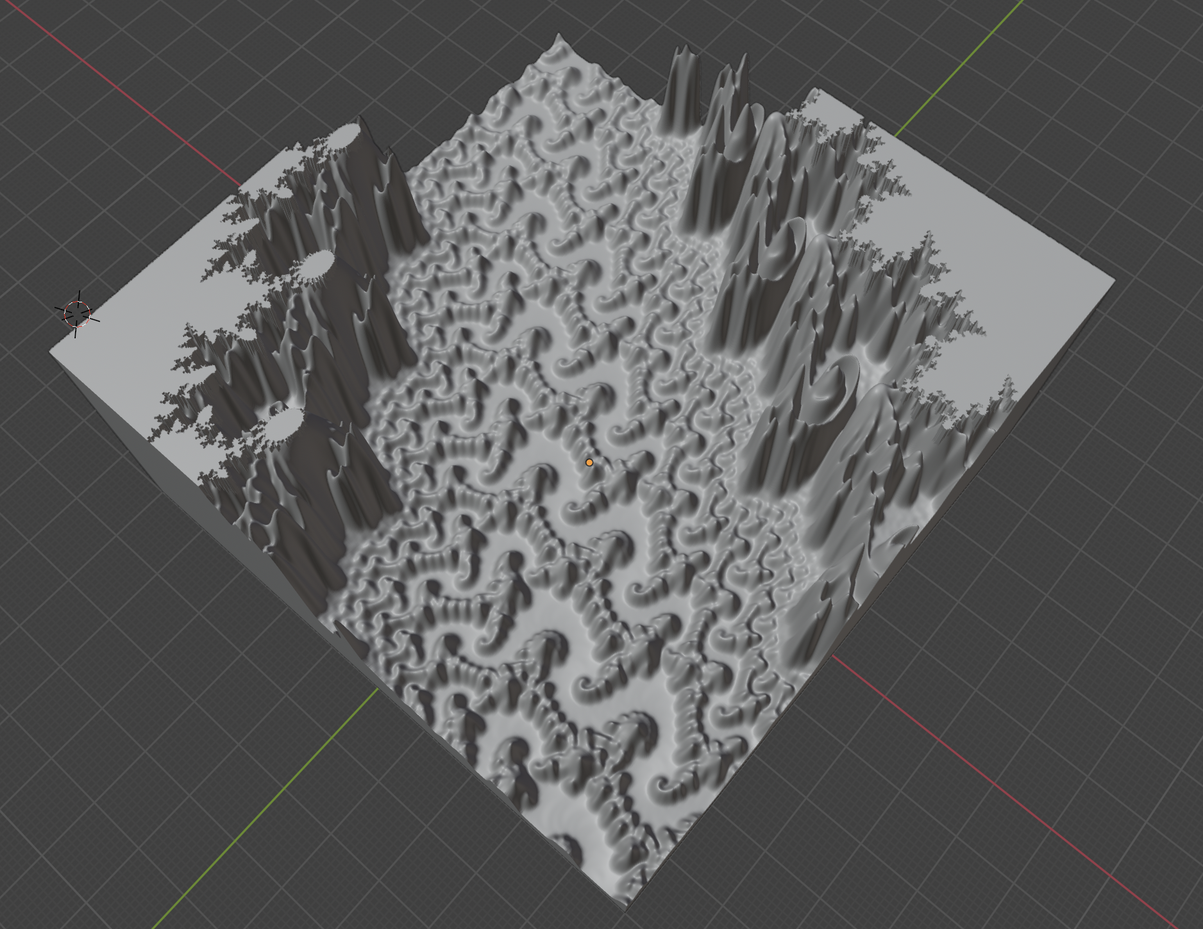
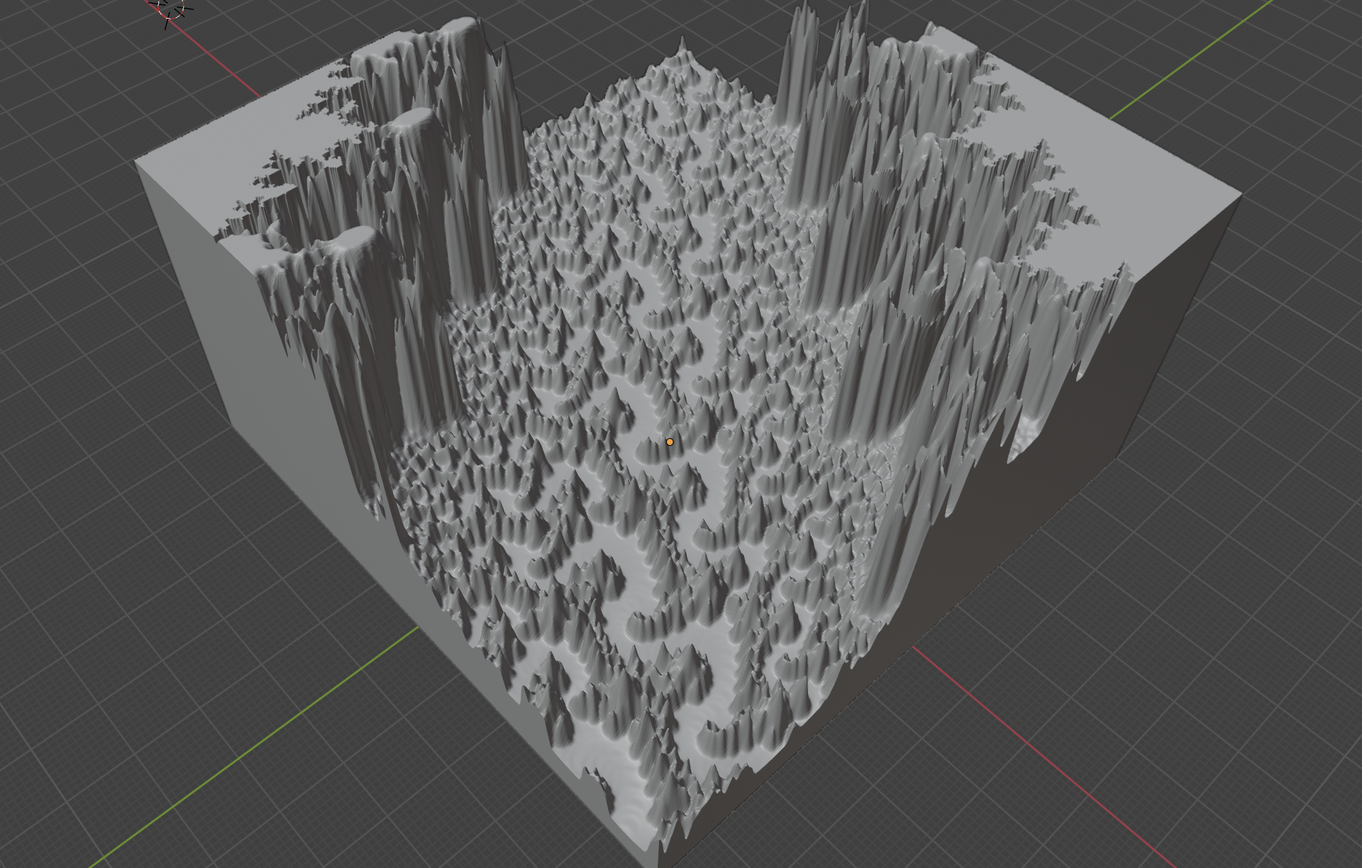
Addition of Mandelbrot Cubed

diff --git a/src/main/java/com/codecritical/lib/model/Fractal.java b/src/main/java/com/codecritical/lib/model/Fractal.java
@@ -20,7 +20,7 @@ public abstract class Fractal {
     static final Logger logger = Logger.getLogger("");
 
     protected final int maxIterations;
-    protected final double i0, i1, j0, j1, iScale, jScale;
+    protected final double i0, i1, j0, j1, iScale, jScale, iShift, jShift;
     protected final int iCount, jCount;
     protected final double iDelta, jDelta;
 
@@ -39,21 +39,28 @@ public abstract class Fractal {
 
         this.iScale = config.asDouble(Config.Fractal.Model.I_SCALE);
         this.jScale = config.asDouble(Config.Fractal.Model.J_SCALE);
-        logger.info(String.format("Scale:  i=%f j=%f", iScale, jScale));
+        this.iShift = config.asDouble(Config.Fractal.Model.I_SHIFT);
+        this.jShift = config.asDouble(Config.Fractal.Model.J_SHIFT);
+        logger.info(String.format("Scale:  i=%f j=%f, Shift: i=%f j=%f.", iScale, jScale, iShift, jShift));
 
         double iLen = (i1tmp - i0tmp) * iScale;
         double iMid = (i1tmp + i0tmp) / 2;
-        this.i0 = iMid - (iLen / 2);
-        this.i1 = iMid + (iLen / 2);
+        this.i0 = iMid - (iLen / 2) + (i1tmp - i0tmp) * iShift;
+        this.i1 = iMid + (iLen / 2) + (i1tmp - i0tmp) * iShift;
 
         double jLen = (j1tmp - j0tmp) * jScale;
         double jMid = (j1tmp + j0tmp) / 2;
-        this.j0 = jMid - (jLen / 2);
-        this.j1 = jMid + (jLen / 2);
+        this.j0 = jMid - (jLen / 2) + (j1tmp - j0tmp) * jShift;
+        this.j1 = jMid + (jLen / 2) + (j1tmp - j0tmp) * jShift;
 
         logger.info(String.format("Width: i=%.20f j=%.20f", iLen, jLen));
 
-        logger.info(String.format("Using: i0=%.20f i1=%.20f j0=%.20f j1=%.20f", i0, i1, j0, j1));
+        logger.info(String.format("Using:\r\n" +
+                "Config.Fractal.Model.I0=%.20f\r\n" +
+                "Config.Fractal.Model.I1=%.20f\r\n" +
+                "Config.Fractal.Model.J0=%.20f\r\n" +
+                "Config.Fractal.Model.J1=%.20f",
+                i0, i1, j0, j1));
 
         this.maxIterations = config.asInt(Config.Fractal.Model.MAX_ITERATIONS);
         this.iCount = config.asInt(Config.Fractal.Model.I_COUNT);
@@ -77,11 +84,11 @@ public abstract class Fractal {
     private ImmutableList<ITranslate> getMappings() {
         ImmutableList.Builder<ITranslate> builder = new ImmutableList.Builder<>();
         builder.add(ITranslate.ONE_TO_ONE);
-        if (insideOut) {
-            builder.add(ITranslate.INSIDE_OUT);
-        }
         if (polarCoordinates) {
             builder.add(ITranslate.POLAR_COORDINATES);
+        }
+        if (insideOut) {
+            builder.add(ITranslate.INSIDE_OUT);
         }
         return builder.build();
     }

diff --git a/src/main/java/com/codecritical/build/mandelbrot/MandelbrotCubicMap.java b/src/main/java/com/codecritical/build/mandelbrot/MandelbrotCubicMap.java
@@ -1,0 +1,45 @@
+package com.codecritical.build.mandelbrot;
+
+/*
+ * Chisel3D, (C) 2024 Ben Clewett & Code Critical Ltd
+ */
+
+import com.codecritical.lib.config.ConfigReader;
+import com.codecritical.lib.model.Fractal;
+
+import javax.annotation.ParametersAreNonnullByDefault;
+
+@ParametersAreNonnullByDefault
+public class MandelbrotCubicMap extends Fractal {
+
+    public MandelbrotCubicMap(ConfigReader config) {
+        super(config);
+    }
+
+    @Override
+    protected Double buildPoint(double rC, double iC) {
+
+        // With complex numbers: z = z^3 + c
+        // Iterate until exit circle, or give up.
+
+        // z = z^3 + c
+        // => (rZ + iZ)(rZ + iZ)(rZ + iZ) + rC + iC
+        // => (rZ^2 + 2*rZ*iZ - [i]Z^2)(rZ + iZ) + rC + iC
+        // => rZ^3 + 2*rZ^2*iZ - rZ*[i]Z^2 + rZ^2*iZ - 2*rZ*[i]Z^2 - iZ^3 + rC + iC
+        // Real:  Zr = rZ^3 - 3*iZ^2*rZ + rC
+        // Imag:  zi = 2*rZ^2*iZ + rZ^s*iZ - iZ^3 + iC
+
+        int iterations = 0;
+
+        double rZ = 0, iZ = 0, rZtmp;
+        while (rZ * rZ + iZ * iZ <= 4 && iterations < maxIterations) {
+            rZtmp = rZ * rZ * rZ - 3 * iZ * iZ * rZ + rC;
+            iZ =  2 * rZ * rZ * iZ + rZ * rZ * iZ - iZ * iZ * iZ + iC;
+            rZ = rZtmp;
+            iterations++;
+        }
+
+        return (double)iterations;
+    }
+
+}

diff --git a/src/main/java/com/codecritical/build/mandelbrot/MandelbrotCubicBuilder.java b/src/main/java/com/codecritical/build/mandelbrot/MandelbrotCubicBuilder.java
@@ -1,0 +1,44 @@
+package com.codecritical.build.mandelbrot;
+
+/*
+ * Chisel3D, (C) 2024 Ben Clewett & Code Critical Ltd
+ */
+
+import com.codecritical.build.Builder;
+import com.codecritical.lib.config.ConfigReader;
+
+import javax.annotation.ParametersAreNonnullByDefault;
+import java.util.logging.Logger;
+
+@ParametersAreNonnullByDefault
+public class MandelbrotCubicBuilder {
+    static final Logger logger = Logger.getLogger("");
+    private final ConfigReader config;
+
+    public MandelbrotCubicBuilder(ConfigReader config) {
+        this.config = config;
+
+        try {
+            build();
+        } catch (Exception ex) {
+            logger.severe("Exception: " + ex);
+            throw new RuntimeException(ex);
+        }
+    }
+
+    private void build() {
+        var map = new MandelbrotCubicMap(config).getMap();
+
+        Builder.create(config, map)
+                .normalise()
+                .scale()
+                .showRoughMap()
+                .buildPlateau()
+                .reportPlateau()
+                .applyPlateauTexture()
+                .applyGaussian()
+                .mapToCsg()
+                .savePrint();
+    }
+
+}

diff --git a/src/main/java/com/codecritical/Container.java b/src/main/java/com/codecritical/Container.java
@@ -8,6 +8,7 @@ import com.codecritical.build.burningship.BurningShipBuilder;
 import com.codecritical.build.gravitationalwaves.GravitationalWaveBuilder;
 import com.codecritical.build.infinitemachine.InfiniteMachineBuilder;
 import com.codecritical.build.mandelbrot.MandelbrotBuilder;
+import com.codecritical.build.mandelbrot.MandelbrotCubicBuilder;
 import com.codecritical.lib.config.ConfigReader;
 import com.codecritical.lib.config.Config;
 
@@ -34,6 +35,7 @@ public class Container {
         switch (model) {
             case INFINITE_MACHINE -> new InfiniteMachineBuilder(config, random);
             case MANDELBROT -> new MandelbrotBuilder(config);
+            case MANDELBROT_CUBIC -> new MandelbrotCubicBuilder(config);
             case GRAVITATIONAL_WAVES -> new GravitationalWaveBuilder(config);
             case BURNING_SHIP -> new BurningShipBuilder(config);
             default -> throw new IllegalStateException("Unexpected value: " + model);

diff --git a/src/main/java/com/codecritical/build/mandelbrot/MandelbrotMap.java b/src/main/java/com/codecritical/build/mandelbrot/MandelbrotMap.java
@@ -17,18 +17,18 @@ public class MandelbrotMap extends Fractal {
     }
 
     @Override
-    protected Double buildPoint(double i, double j) {
+    protected Double buildPoint(double rC, double iC) {
 
         // With complex numbers: z = z^2 + c
         // Iterate until exit circle, or give up.
 
         int iterations = 0;
 
-        double imaginaryZ = 0, realZ = 0;
-        while (imaginaryZ * imaginaryZ + realZ * realZ <= 4 && iterations < maxIterations) {
-            double imaginaryZTmp = imaginaryZ * imaginaryZ - realZ * realZ + i;
-            realZ = 2 * imaginaryZ * realZ + j;
-            imaginaryZ = imaginaryZTmp;
+        double rZ = 0, iZ = 0, iZtmp;
+        while (rZ * rZ + iZ * iZ <= 4 && iterations < maxIterations) {
+            iZtmp = rZ * rZ - iZ * iZ + rC;
+            iZ = 2 * rZ * iZ + iC;
+            rZ = iZtmp;
             iterations++;
         }
 

diff --git a/src/main/java/com/codecritical/lib/config/Config.java b/src/main/java/com/codecritical/lib/config/Config.java
@@ -29,6 +29,8 @@ public enum Config {
             J_COUNT,
             I_SCALE,
             J_SCALE,
+            I_SHIFT,
+            J_SHIFT,
             POLAR_COORDINATES,
             INSIDE_OUT
         }

diff --git a/src/main/java/com/codecritical/Main.java b/src/main/java/com/codecritical/Main.java
@@ -11,6 +11,7 @@ public class Main {
     enum EModel {
         INFINITE_MACHINE,
         MANDELBROT,
+        MANDELBROT_CUBIC,
         GRAVITATIONAL_WAVES,
         BURNING_SHIP
     }

diff --git a/README.md b/README.md
@@ -49,7 +49,7 @@ Config.Fractal.Model.J1=0.1336901
 
 <a href="https://www.thingiverse.com/thing:6500841">thingiverse.com</a>
 
-## Valley
+## Valley of the Seahorses
 
 <img src="images/mandelbrot_valley.png" height="200" width="300" />
 
@@ -111,6 +111,21 @@ Config.Fractal.Model.J0=-1.35
 Config.Fractal.Model.J1=1.35
 Config.Fractal.Model.INSIDE_OUT=true
 </pre>
+
+## Mandelbrot Shelf
+
+<img src="images/mandelbrot_shelf.png" height="200" width="300" />
+
+<pre>
+Config.Fractal.Model.MAX_ITERATIONS=500
+Config.Fractal.Model.I0=-3
+Config.Fractal.Model.I1=3.021
+Config.Fractal.Model.J0=0
+Config.Fractal.Model.J1=4
+Config.Fractal.Model.POLAR_COORDINATES=true
+Config.Fractal.Model.INSIDE_OUT=true
+</pre>
+
 
 ## Classic Burning Ship
 
